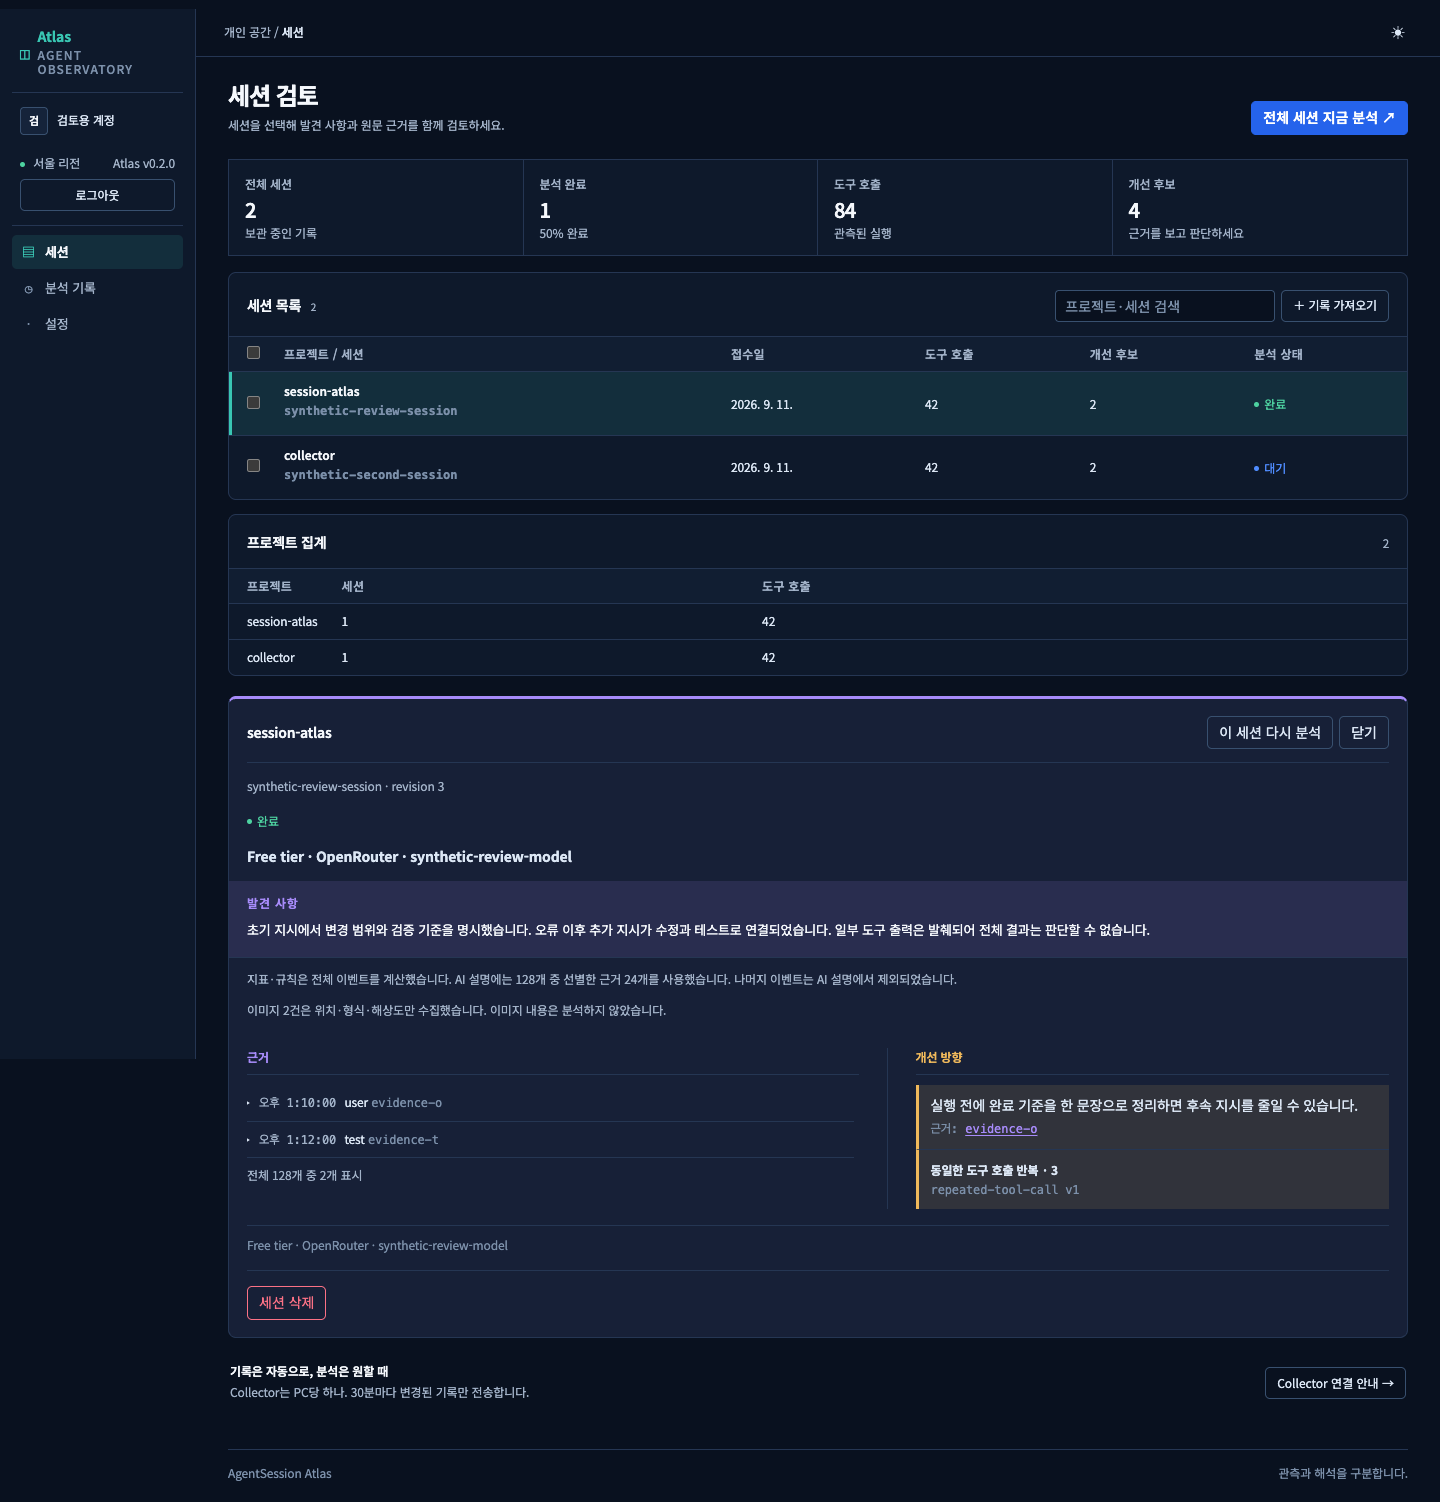
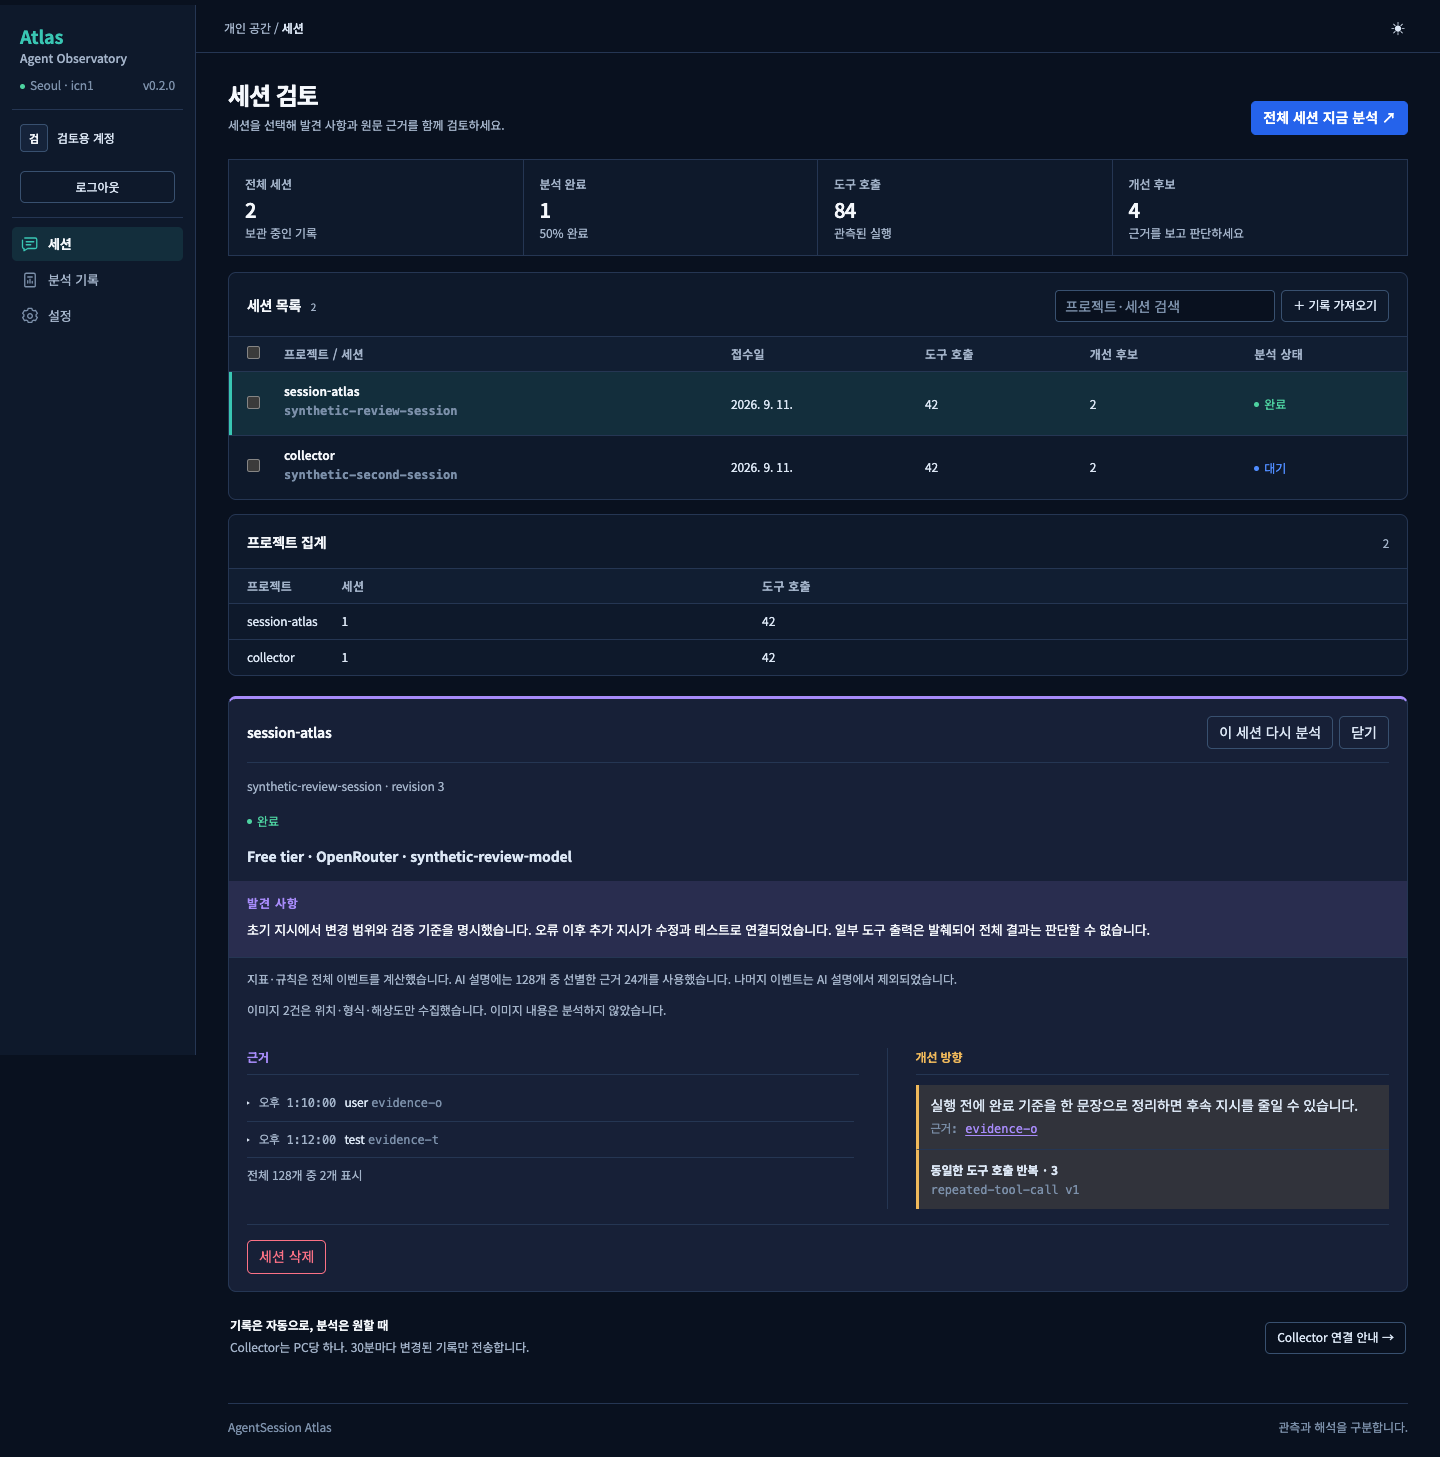
Refine sidebar identity and remove duplicate analysis provenance

diff --git a/apps/web/components/atlas.tsx b/apps/web/components/atlas.tsx
@@ -3,6 +3,7 @@ import { useEffect, useState, useCallback, useRef } from "react";
 import Link from "next/link";
 import { useRouter } from "next/navigation";
 import { Select } from "./select";
+import { NavigationIcon } from "./navigation-icon";
 import { signIn, signOut } from "next-auth/react";
 import { type AtlasBatch } from "@agent-observatory/contracts";
 import { codexEventWithImages } from "@agent-observatory/contracts/images";
@@ -466,12 +467,20 @@ export function Atlas({ view }: { view: AtlasView }) {
   return (
     <div className="app">
       <aside>
-        <a className="brand" href="/">
-          ◫{" "}
-          <span>
-            Atlas<small>AGENT OBSERVATORY</small>
-          </span>
-        </a>
+        <div className="product-identity">
+          <Link className="brand" href="/sessions">
+            <span>
+              Atlas<small>Agent Observatory</small>
+            </span>
+          </Link>
+          <div className="product-meta">
+            <span>
+              <span className="dot" />
+              Seoul · icn1
+            </span>
+            <span>v0.2.0</span>
+          </div>
+        </div>
         <div className="workspace">
           <span className="avatar">
             {user?.name?.[0]?.toUpperCase() || "A"}
@@ -483,10 +492,6 @@ export function Atlas({ view }: { view: AtlasView }) {
           </span>
         </div>
         <div className="aside-account">
-          <span>
-            <span className="dot" /> {t("서울 리전", "Seoul region")}
-          </span>
-          <span>Atlas v0.2.0</span>
           {user && !user.guest ? (
             <button onClick={() => signOut()}>
               {t("로그아웃", "Sign out")}
@@ -501,17 +506,17 @@ export function Atlas({ view }: { view: AtlasView }) {
         </div>
         <nav>
           {[
-            ["sessions", "/sessions", "▤", t("세션", "Sessions")],
-            ["jobs", "/analyses", "◷", t("분석 기록", "Analyses")],
-            ["settings", "/settings", "·", t("설정", "Settings")],
-          ].map(([id, href, icon, label]) => (
+            ["sessions", "/sessions", t("세션", "Sessions")],
+            ["jobs", "/analyses", t("분석 기록", "Analyses")],
+            ["settings", "/settings", t("설정", "Settings")],
+          ].map(([id, href, label]) => (
             <Link
               className={`nav-link ${view === id ? "active" : ""}`}
               key={id}
               aria-current={view === id ? "page" : undefined}
               href={href}
             >
-              <span>{icon}</span>
+              <NavigationIcon name={id as "sessions" | "jobs" | "settings"} />
               {label}
             </Link>
           ))}
@@ -929,6 +934,12 @@ export function Atlas({ view }: { view: AtlasView }) {
                                       )
                                     : aiPendingLabel(settings.language)}
                               </strong>
+                              {r.result.cost != null && (
+                                <span className="muted">
+                                  {" "}
+                                  · {t("비용", "Cost")}: {r.result.cost}
+                                </span>
+                              )}
                             </p>
                             {!!r.result.ruleErrors?.length && (
                               <p className="muted">
@@ -1069,25 +1080,6 @@ export function Atlas({ view }: { view: AtlasView }) {
                                 )}
                               </div>
                             </div>
-                            <footer>
-                              {r.result.ai
-                                ? formatAiProvenance(
-                                    r.result,
-                                    settings.language,
-                                  )
-                                : r.status === "failed"
-                                  ? t(
-                                      "AI 설명 생성 실패",
-                                      "AI explanation failed",
-                                    )
-                                  : aiPendingLabel(settings.language)}
-                              {r.result.cost != null && (
-                                <>
-                                  {" · "}
-                                  {t("비용", "Cost")}: {r.result.cost}
-                                </>
-                              )}
-                            </footer>
                           </>
                         )}
                       </article>

diff --git a/apps/web/app/globals.css b/apps/web/app/globals.css
@@ -134,27 +134,36 @@ aside {
   display: flex;
   flex-direction: column;
 }
-.brand {
-  display: flex;
-  gap: 8px;
-  align-items: center;
-  color: var(--teal);
-  font-size: 16px;
-  text-decoration: none;
-  padding: 2px 8px 15px;
+.product-identity {
+  padding: 2px 8px 14px;
   border-bottom: 1px solid var(--border);
 }
+.brand {
+  display: flex;
+  color: var(--teal);
+  text-decoration: none;
+}
 .brand > span {
-  font-size: 14px;
-  line-height: 1.2;
+  font-size: 18px;
+  line-height: 1.35;
   font-weight: 700;
 }
 .brand small {
   font-size: 12px;
-  letter-spacing: 1.15px;
-  margin-top: 3px;
-  color: var(--faint);
+  letter-spacing: 0;
+  white-space: nowrap;
+  margin-top: 2px;
+  color: var(--muted);
   font-weight: 500;
+}
+.product-meta {
+  display: flex;
+  justify-content: space-between;
+  gap: 8px;
+  margin-top: 10px;
+  font-size: 12px;
+  color: var(--faint);
+  white-space: nowrap;
 }
 small {
   display: block;
@@ -212,10 +221,10 @@ nav .nav-link {
   padding: 7px 9px;
   font-size: 13px;
 }
-nav .nav-link span {
-  width: 15px;
-  text-align: center;
-  font-size: 13px;
+nav .navigation-icon {
+  width: 18px;
+  height: 18px;
+  flex-shrink: 0;
   color: var(--faint);
 }
 nav .active {
@@ -223,7 +232,7 @@ nav .active {
   background: var(--teal-soft);
   font-weight: 600;
 }
-nav .active span {
+nav .active .navigation-icon {
   color: var(--teal);
 }
 .aside-account {
@@ -998,9 +1007,15 @@ article footer,
     border-right: 0;
     border-bottom: 1px solid var(--border);
   }
-  .brand {
+  .product-identity {
     border: 0;
-    padding: 0 10px 0 0;
+    padding: 0;
+    grid-column: 1 / -1;
+  }
+  .product-meta {
+    justify-content: flex-start;
+    margin-top: 5px;
+    gap: 12px;
   }
   .brand small {
     display: block;
@@ -1030,7 +1045,10 @@ article footer,
   }
   nav {
     display: flex;
-    justify-content: flex-end;
+    grid-column: 1 / -1;
+    grid-row: 3;
+    justify-content: flex-start;
+    gap: 8px;
     min-width: 0;
   }
   nav .nav-link {
@@ -1038,8 +1056,9 @@ article footer,
     min-height: 30px;
     padding: 5px 7px;
   }
-  nav .nav-link span {
-    display: none;
+  nav .navigation-icon {
+    width: 16px;
+    height: 16px;
   }
   main {
     margin-left: 0;

diff --git a/apps/web/components/navigation-icon.tsx b/apps/web/components/navigation-icon.tsx
@@ -1,0 +1,40 @@
+// Original Atlas navigation assets. Shared 24px grid and 1.75px stroke.
+export function NavigationIcon({
+  name,
+}: {
+  name: "sessions" | "jobs" | "settings";
+}) {
+  return (
+    <svg
+      className="navigation-icon"
+      viewBox="0 0 24 24"
+      fill="none"
+      stroke="currentColor"
+      strokeWidth="1.75"
+      strokeLinecap="round"
+      strokeLinejoin="round"
+      aria-hidden="true"
+      focusable="false"
+    >
+      {name === "sessions" ? (
+        <>
+          <path d="M5 4h14a2 2 0 0 1 2 2v10a2 2 0 0 1-2 2H9l-5 3v-3a2 2 0 0 1-2-2V7" />
+          <path d="M7 9h10M7 13h6" />
+        </>
+      ) : name === "jobs" ? (
+        <>
+          <path d="M7 3h10a2 2 0 0 1 2 2v15a1 1 0 0 1-1 1H6a1 1 0 0 1-1-1V5a2 2 0 0 1 2-2Z" />
+          <path d="M9 8h6M9 16v-3m3 3v-5m3 5v-2" />
+        </>
+      ) : (
+        <>
+          <path
+            d="m9.5 3-.6 2.4-2 .9-2.2-.7-2.5 4.3 1.7 1.7v2.3l-1.7 1.7 2.5 4.3 2.2-.7 2 .9.6 2.4h5l.6-2.4 2-.9 2.2.7 2.5-4.3-1.7-1.7v-2.3l1.7-1.7-2.5-4.3-2.2.7-2-.9-.6-2.4Z"
+            transform="translate(0 -1) scale(1 .96)"
+          />
+          <circle cx="12" cy="12" r="3" />
+        </>
+      )}
+    </svg>
+  );
+}

diff --git a/docs/DESIGN.md b/docs/DESIGN.md
@@ -49,9 +49,12 @@ Atlas는 에이전트 세션을 검토하는 개발 도구다. 화면은 세션,
 
 새로고침·뒤로 가기·직접 접근은 같은 화면을 유지한다. 루트 URL은 `/sessions`로 이동하며 기존 세션·Collector 연결 링크의 쿼리를 보존한다. 페이지 이동은 Next.js Link를 사용하고 활성 메뉴에 `aria-current`를 표시한다.
 
-공통 화면은 `apps/web/components/atlas.tsx`, 선택 메뉴는 `components/select.tsx`, 디자인 토큰은 `app/globals.css`에서 관리한다. 로그인·계정·버전은 데스크톱과 모바일 모두 왼쪽 위에 둔다. 포커스를 되찾으면 인증을 새로 확인하고, 계정이 바뀌면 이전 계정의 화면 데이터와 입력한 API key를 제거한다.
+공통 화면은 `apps/web/components/atlas.tsx`, 선택 메뉴는 `components/select.tsx`, 디자인 토큰은 `app/globals.css`에서 관리한다. 제품 이름과 `Agent Observatory`는 왼쪽 위에 두고 브랜드 설명은 한 줄로 표시한다. 리전·버전은 바로 아래 제품 정보에 묶는다. 로그인·계정은 구분선 아래 별도 영역에 둔다. 모바일에서도 같은 정보 위계를 유지한다. 포커스를 되찾으면 인증을 새로 확인하고, 계정이 바뀌면 이전 계정의 화면 데이터와 입력한 API key를 제거한다.
 
 ## 컴포넌트
+
+- 메뉴는 문자 기호 대신 동일한 24px 격자·1.75px 선의 SVG 아이콘을 사용한다. 세션은 대화, 분석 기록은 보고서, 설정은 톱니바퀴로 표현한다. 원본은 `components/navigation-icon.tsx`에서 관리한다.
+- 분석 결과의 Free tier/BYOK·Provider·모델·비용은 결과 상단에 한 번만 표시한다. 하단에 반복하지 않는다.
 
 - 주 버튼은 두 테마 모두 `#2563EB` 배경과 흰 글자를 사용한다. 한 구역에 하나만 둔다.
 - 보조 버튼은 투명 배경과 명확한 경계선을 사용한다.
